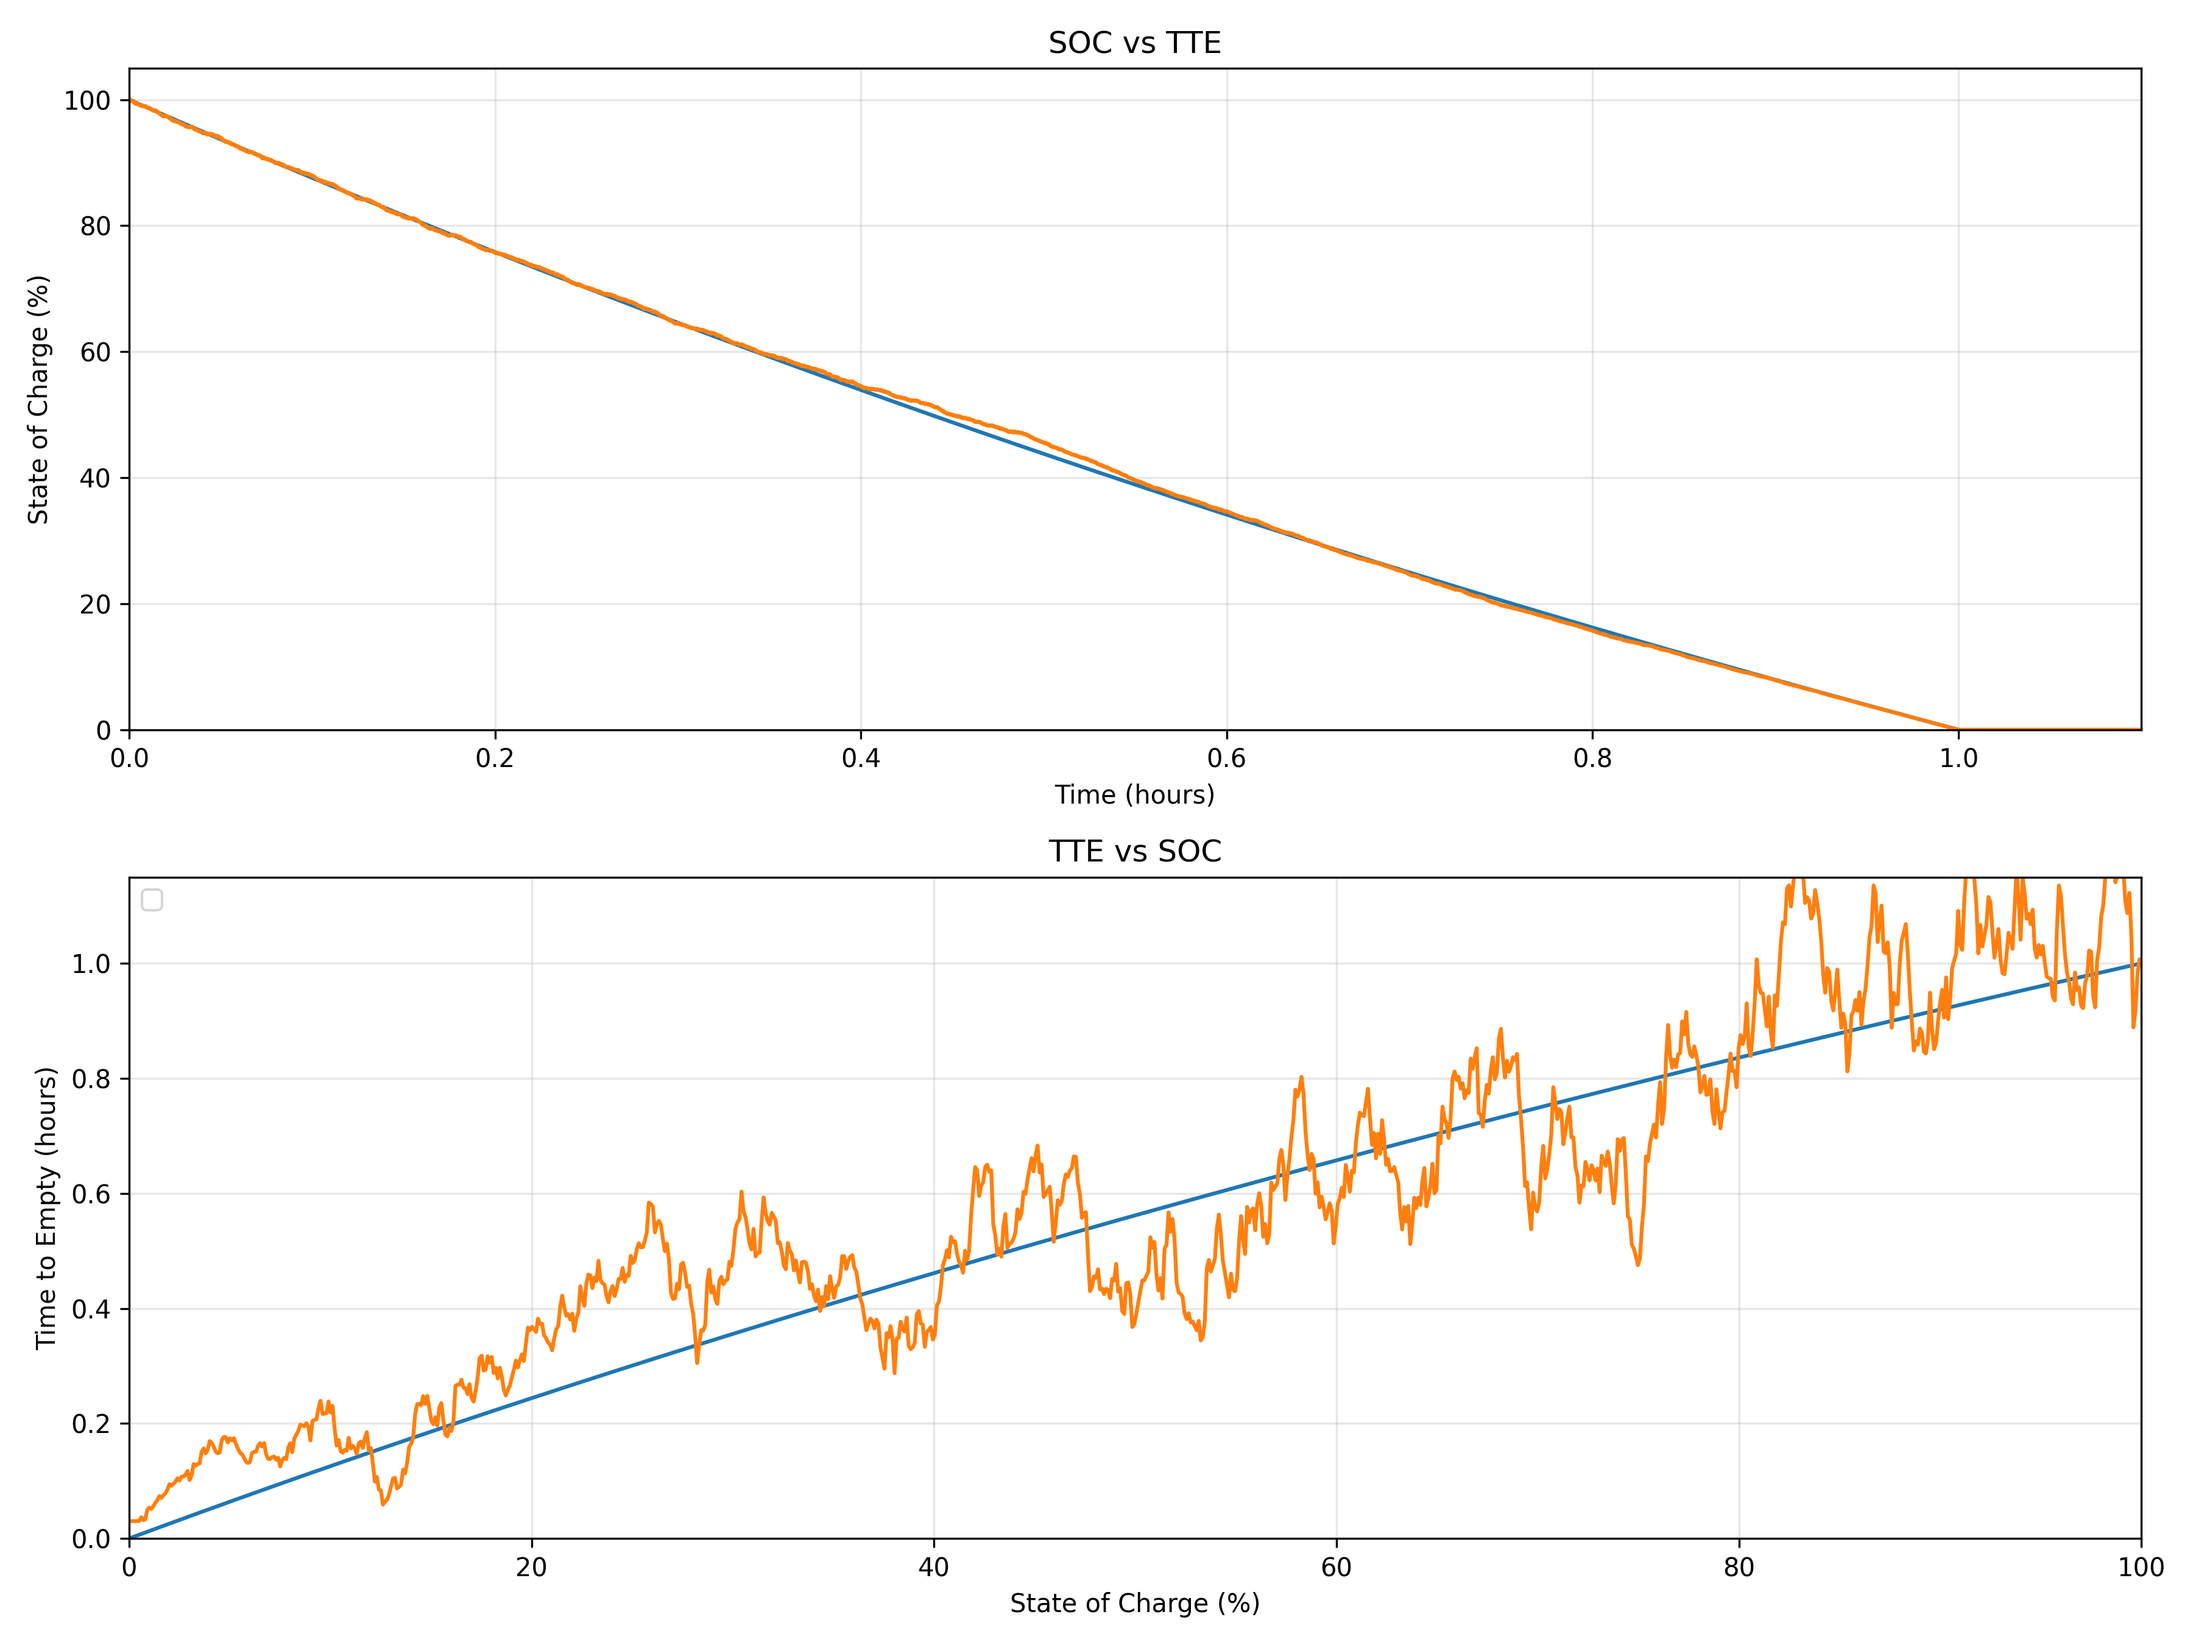
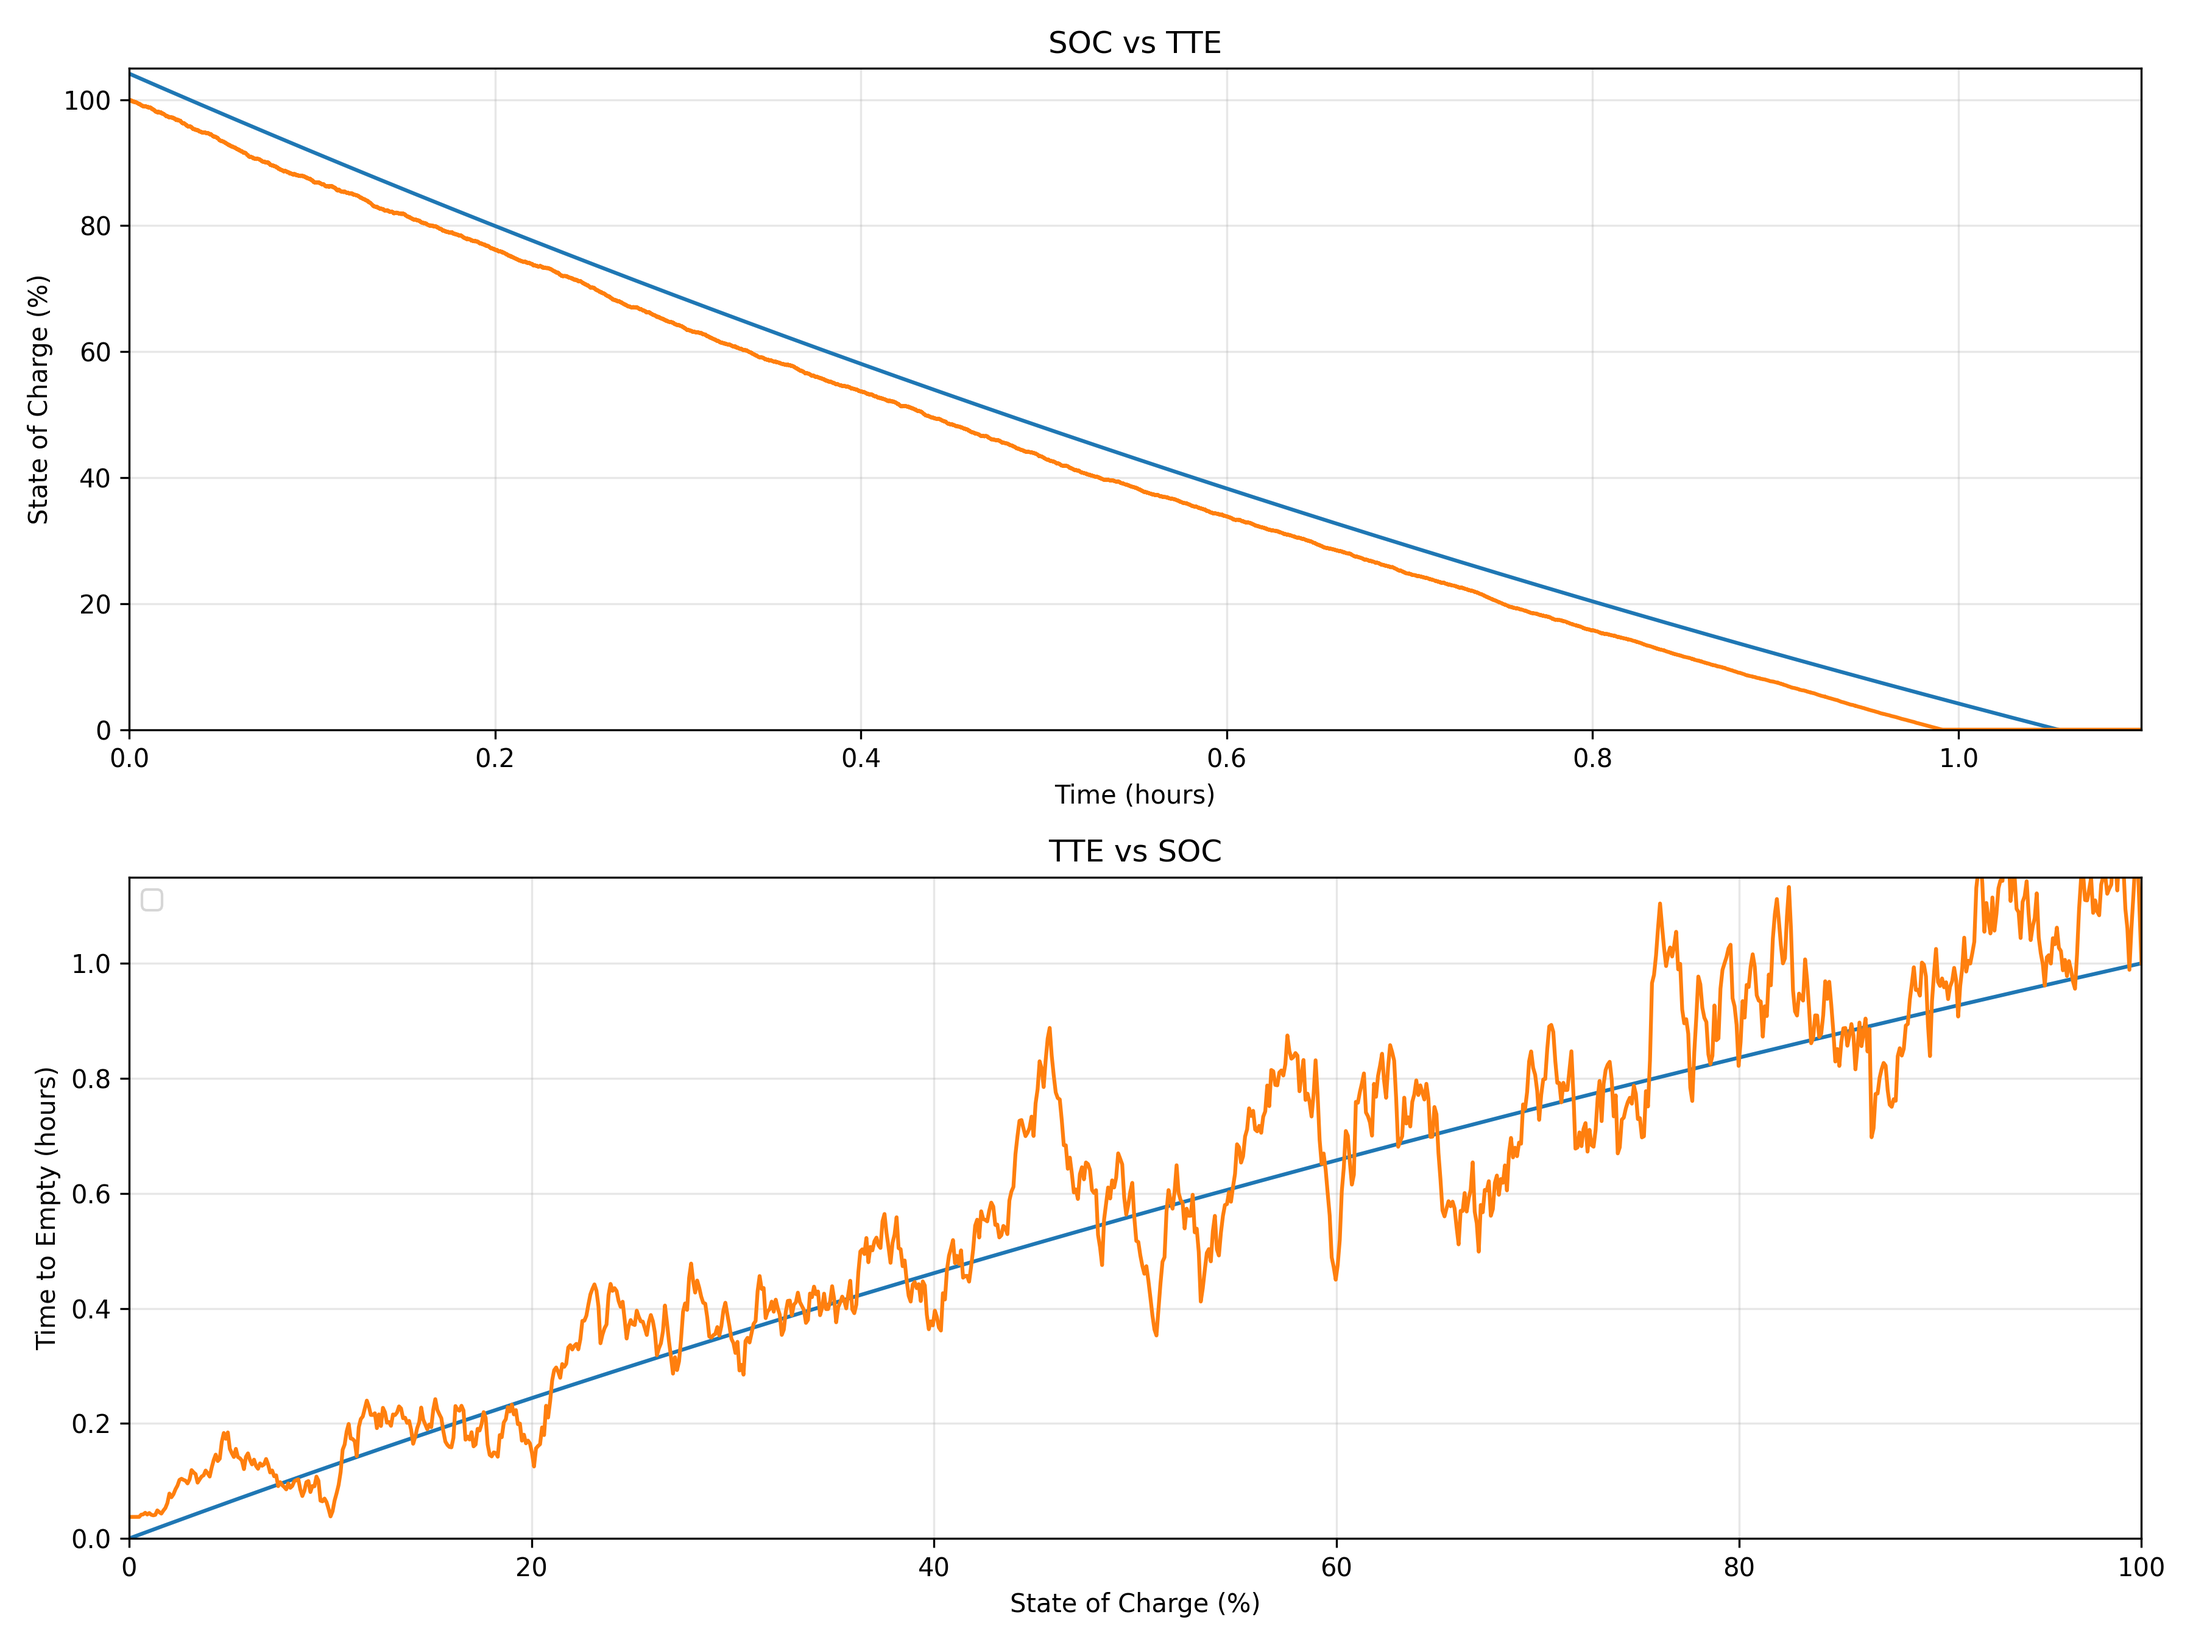
some changes

diff --git a/MCM_2026/misc code/ode_solver.py b/MCM_2026/misc code/ode_solver.py
@@ -1,0 +1,69 @@
+import pandas as pd
+import numpy as np
+import scipy.optimize as sop
+import matplotlib.pyplot as plt
+
+X = np.array([0,1,2,3,4,5,6,7,8,9,10])
+Y = np.array([10,8,3,4,6,8,25,9,4,2,1])
+
+
+def power_model(x, a, b, c):
+    with np.errstate(all='ignore'):
+        return a * np.power(np.maximum(x, 1e-10), b) + c
+
+
+def power_derivative(x, a, b, c):
+    with np.errstate(all='ignore'):
+        return a * b * np.power(np.maximum(x, 1e-10), b - 1)
+
+
+def fit_power_function(X, Y):
+    params, _ = sop.curve_fit(power_model, X, Y, p0=[10, -0.5, 0], maxfev=10000)
+    a, b, c = params
+    
+    y_pred = power_model(X, *params)
+    r_squared = 1 - np.sum((Y - y_pred)**2) / np.sum((Y - np.mean(Y))**2)
+    
+    print(f"Function: y = {a:.4f}*x^{b:.4f} + {c:.4f}")
+    print(f"Diff eq:  dy/dx = {a*b:.4f}*x^{b-1:.4f}")
+    print(f"R² = {r_squared:.6f}")
+    
+    return params
+
+
+def plot_fit(X, Y, params):
+    x_smooth = np.linspace(X.min(), X.max(), 200)
+    y_fit = power_model(x_smooth, *params)
+
+
+
+    dy_dx = power_derivative(x_smooth, *params)
+    
+    fig, (ax1, ax2) = plt.subplots(1, 2, figsize=(12, 5))
+    
+    ax1.scatter(X, Y, color='red', label='Data', s=50)
+    ax1.plot(x_smooth, y_fit, color='blue', label='Power Fit', linewidth=2)
+    ax1.set_xlabel('X')
+    ax1.set_ylabel('Y')
+    ax1.set_title('Power Function Fit')
+    ax1.legend()
+    ax1.grid(True, alpha=0.3)
+    
+    ax2.plot(x_smooth, dy_dx, color='green', linewidth=2)
+    ax2.axhline(y=0, color='black', linestyle='--', alpha=0.3)
+    ax2.set_xlabel('X')
+    ax2.set_ylabel('dy/dx')
+    ax2.set_title('Derivative (Differential Equation)')
+    ax2.grid(True, alpha=0.3)
+    plt.show()
+
+
+params = fit_power_function(X, Y)
+plot_fit(X, Y, params)
+
+# Now you can use the fitted function on new data
+a, b, c = params
+test_x = 5.5
+test_y = power_model(test_x, a, b, c)
+print(f"  y({test_x}) = {test_y:.4f}")
+print(f"  dy/dx({test_x}) = {power_derivative(test_x, a, b, c):.4f}")

diff --git a/MCM_2026/stochastic/stochastic_full.py b/MCM_2026/stochastic/stochastic_full.py
@@ -81,7 +81,7 @@ for i in range(1, N):
     SOC[i], _ = rk4_step_soc(SOC[i-1], timeInHours[i-1], dt)
 
 # Deterministic SOC for comparison
-SOC_deterministic = 254.149408254 * np.exp(-batteryDrainConstant * timeInHours) - 154.149408254
+SOC_deterministic = 254.149408254 * np.exp(-batteryDrainConstant * timeInHours) - 150
 
 # SOC & TTE
 stateOfChargeAxis = np.linspace(0, 100, 1000)

diff --git a/MCM_2026/stochastic/monteCarloSim.py b/MCM_2026/stochastic/monteCarloSim.py
@@ -37,7 +37,7 @@ def plot_monte_carlo_results(paths):
         plt.plot(timeInHours, paths[i], alpha=0.05, color='orange')
     
     plt.title("Monte Carlo Simulation: SOC Diffusion Paths")
-    plt.xlabel("Time (hours)")
+    plt.xlabel("Time (two years)")
     plt.ylabel("State of Charge (%)")
     plt.xlim([0, T])
     plt.ylim([0, 105])

diff --git a/README.md b/README.md
@@ -1,1 +1,21 @@
-# mcm_usc
+MCM 2026 Problem A involves tracking the change in battery capacity over time and how it affects the total battery life. Reading the literature on this problem (and its analogs for products like electric vehicles) built our intuition that the capacity should be strictly monotone along with the battery life.
+
+Meeting the deliverables of Problem A mainly entails three models: the State of Charge (SOC) over Time, Time To Empty (TTE) over SOC, and the Power Drain Function (also called Discharge Rate, PDF). Initial research led to a decay model as our SOC and a logistic model as our baseline TTE. These were aligned only with general research figures and not deterministic functions.
+
+We backed our next approach with battery loss data from the collated Sherlock Lithium Ion Battery dataset by introducing stochastic noise into our SOC and TTE functions, creating two SDEs. We ran a Monte Carlo simulation and took the mean result, giving us our second baseline.
+
+We were left with some issues. First, our noise injection wasn't matching the data as well as we wanted because the drift component of the SDE was too inaccurate. We needed a more accurate model built on physical factors. We went back to the simple SOC circuit formula with PDF and noise coefficients. We derived our new TTE from this function as well. This gave us, in theory, better models - but our PDF was still lacking.
+
+For ease of computation, we had started with a constant PDF, then shifted to a weighted function of the physical components of the phone that we saw had a high correlation from the research. Seeing these methods fail as well, we decided to create our own analytic PDF by approximating the function from battery loss rates. 
+
+Combining these results led to a more accurate model based on our data. We also implemented realistic limits in terms of SOC thresholds (learning that phones will shut off after hitting a specific battery threshold), among other constraints.
+
+We then shifted our attention to the insights the model could provide. Adjusting our PDF, we were able to model different usage types and environments. We separated several zones of the PDF parameter to categorize these types more efficiently.
+
+Analyzing our model's stability through phase portrait analysis and various Jacobian and confusion tests, we developed a better understanding of how our model. Conducting our sensitivity analysis through micro-perturbations and specialized Monte Carlo simulations also increased our confidence in our technique.
+
+Our final steps included using Principal Component Analysis and Bayesian Inference methods to find the most important signals and characteristics of our model and created user recommendations on how to optimize battery life and capacity in the short and long term.
+
+MCM has been an incredible first experience and I'm so glad we were able to participate. We are excited to continue learning and participate again next year!
+
+-Thanks for reading from Bose, Dao and Max.
